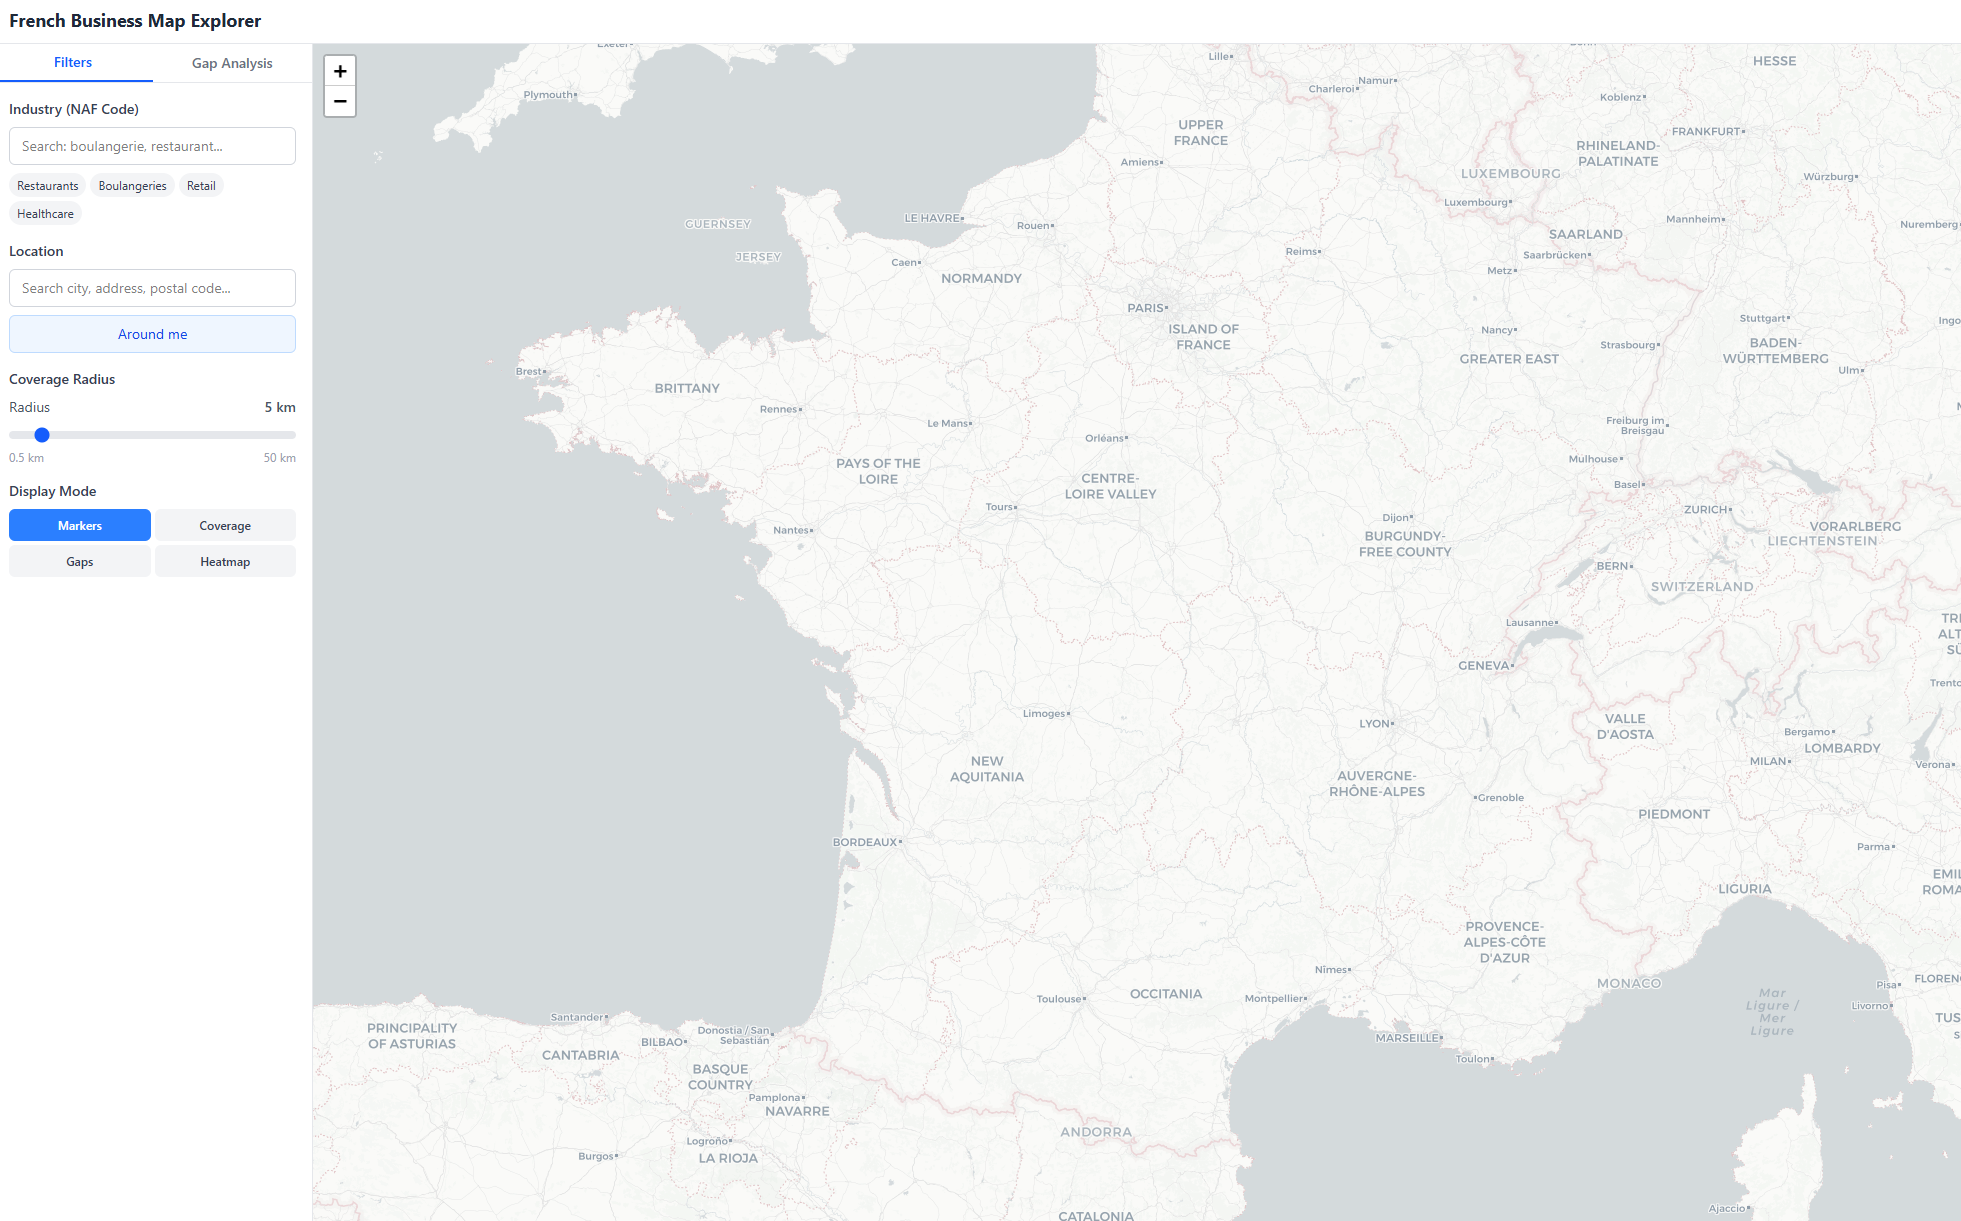
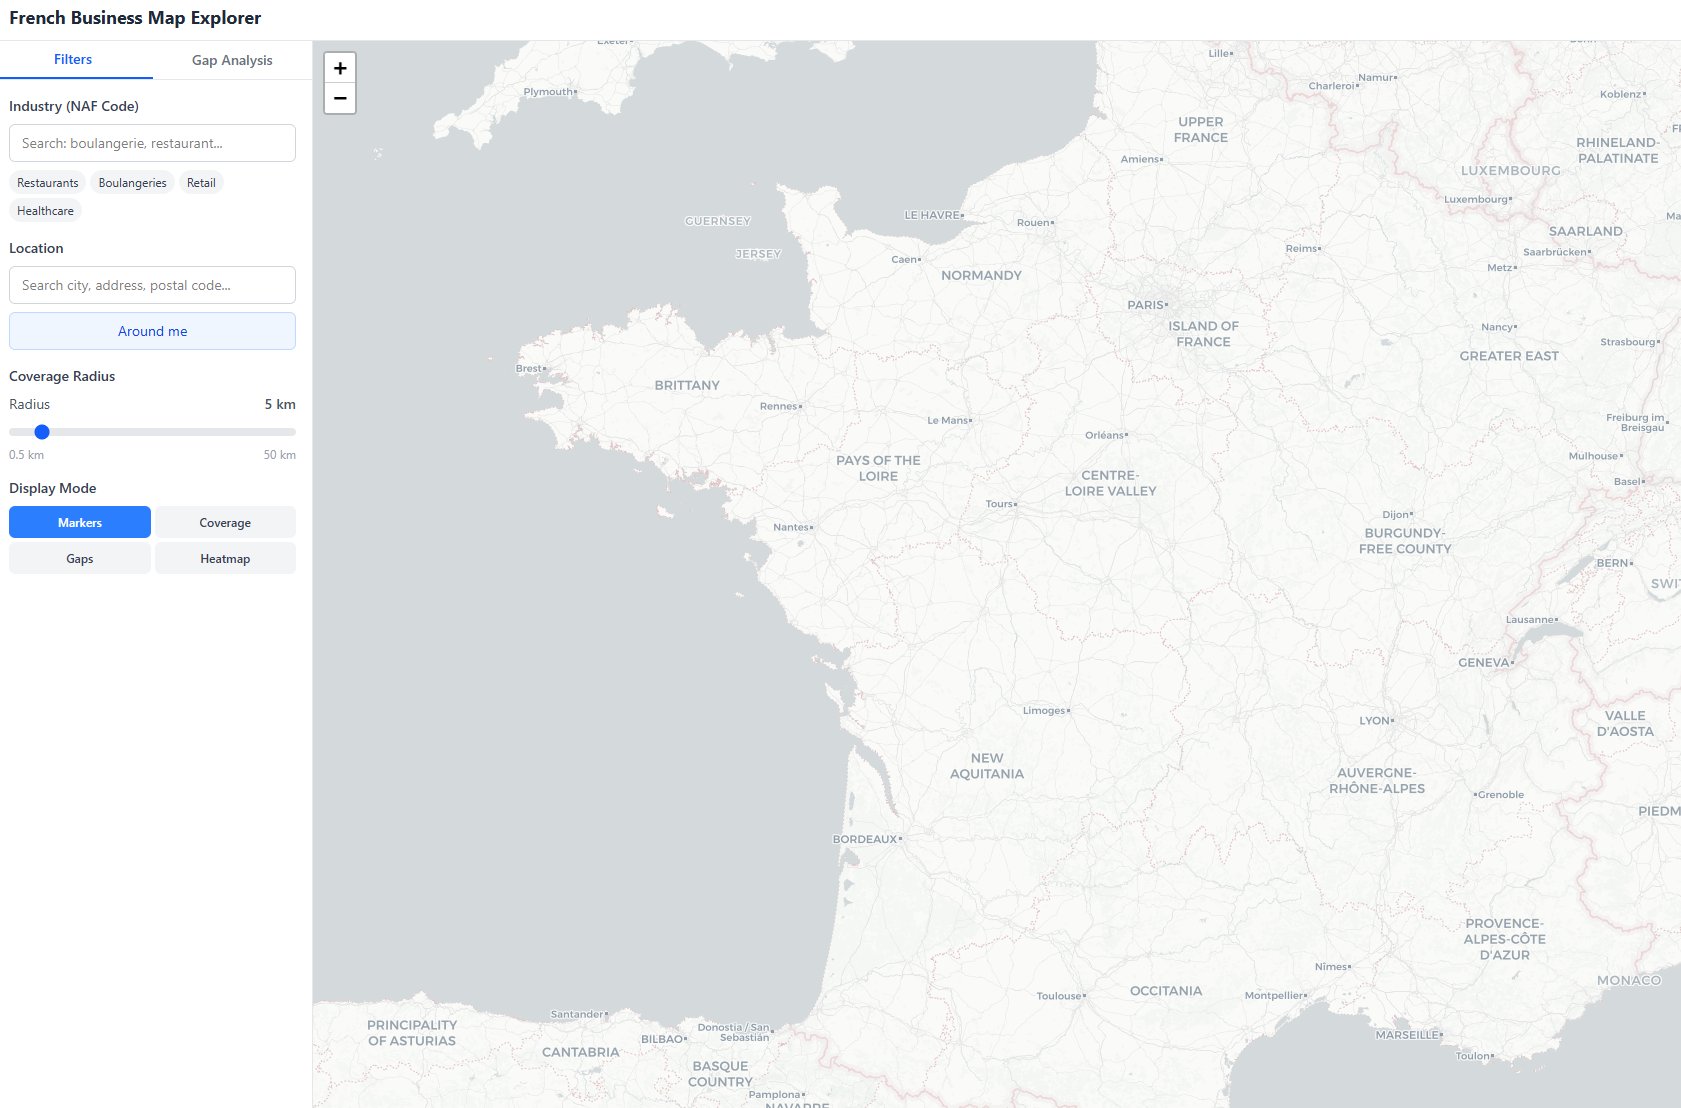
upload

diff --git a/README.md b/README.md
@@ -12,7 +12,8 @@ An interactive web application for exploring and visualizing French businesses a
 ## Screenshots
 
 ![Map View](docs/map-view.png)
-_Interactive map view showing business clusters._
+
+![Map View](docs/map-view-paris.png)
 
 ## The Stack
 
